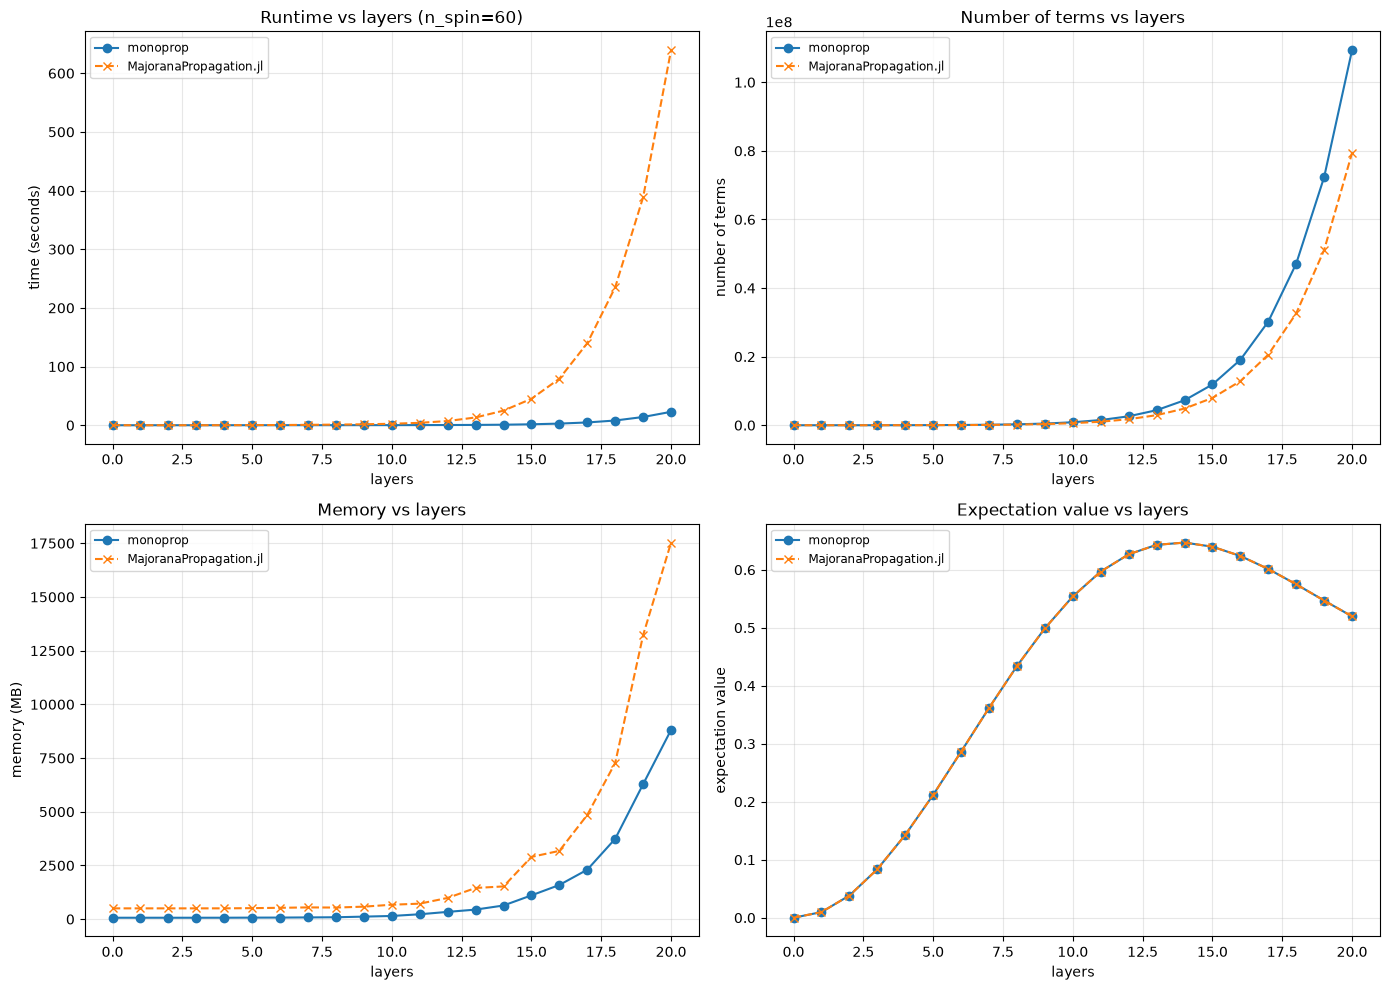
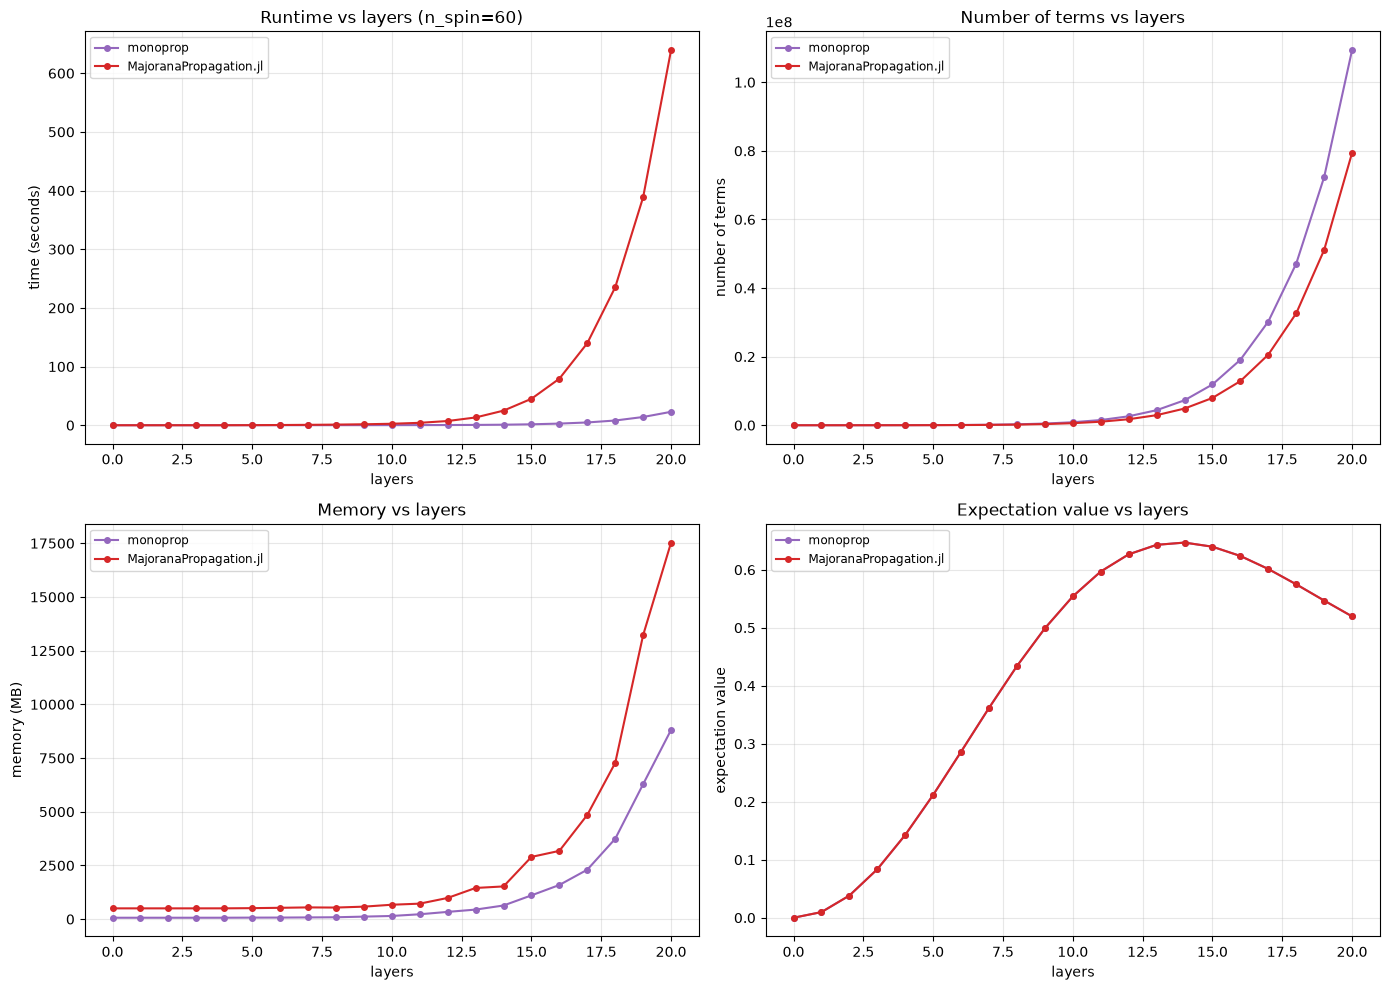
fix: simpler plot design for MP

diff --git a/packages/bench-third-party/majorana_prop/plot_results.py b/packages/bench-third-party/majorana_prop/plot_results.py
@@ -20,7 +20,7 @@ from pathlib import Path
 
 import matplotlib.pyplot as plt
 
-STYLES = {"monoprop": "-o", "MajoranaPropagation.jl": "--x"}
+COLORS = {"monoprop": "tab:purple", "MajoranaPropagation.jl": "tab:red"}
 
 
 def plot_metric(
@@ -31,7 +31,15 @@ def plot_metric(
 ) -> None:
     """Plot ``metric_dict[source]`` vs. ``step_range`` for each source onto ``ax``."""
     for source, values in metric_dict.items():
-        ax.plot(step_range, values, STYLES.get(source, "-o"), label=source)
+        ax.plot(
+            step_range,
+            values,
+            color=COLORS[source],
+            label=source,
+            linestyle="-",
+            marker="o",
+            markersize=4,
+        )
     ax.set_xlabel("layers")
     ax.set_ylabel(ylabel)
     ax.legend(fontsize="small")
